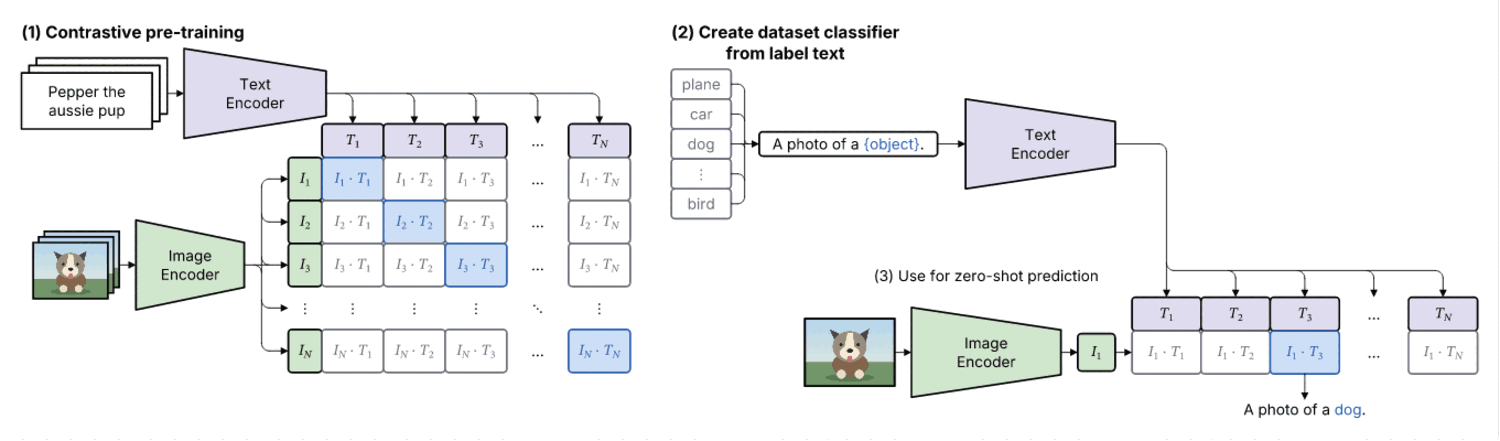
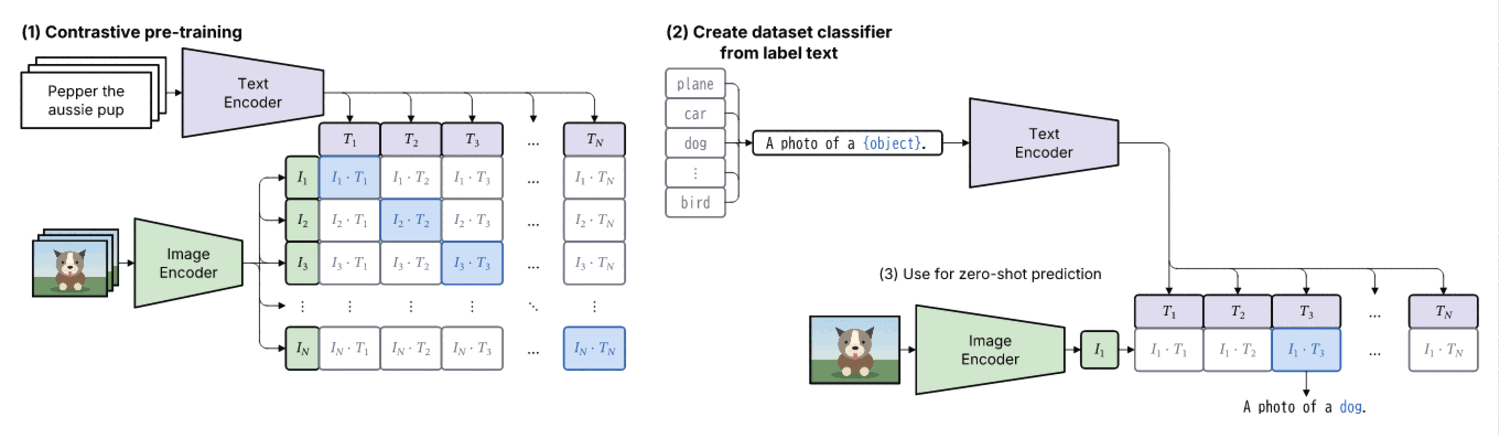
feat: allow monospace text in node labels (#284)
* feat: allow monospace text in node labels
* fix(theme): preserve mono overrides through component expansion

diff --git a/src/render/mono-labels.integration.test.ts b/src/render/mono-labels.integration.test.ts
@@ -1,0 +1,247 @@
+import { describe, expect, test } from "bun:test";
+import { checkFigure } from "../core/check";
+import { BUILTIN_THEMES, getTheme } from "../core/theme/builtin";
+import { getFontSet } from "../core/theme/fonts";
+import type { Theme } from "../core/theme/schema";
+import { measureLabel } from "../lint/geometry/measure";
+import { svgToPdf } from "./pdf";
+import { inspectPdf } from "./pdf/testing";
+import { svgToEditablePptx } from "./pptx";
+import { readPptx } from "./pptx/testing";
+import { type RenderedStructuredFigure, renderFigure } from "./render";
+
+const source = (nodes: string, theme = "paper", items = "a") => `version: 1
+figure:
+  id: mono-labels
+  theme: ${theme}
+  profile: paper-double
+  layout:
+    arrange: { row: { items: [${items}] } }
+nodes:
+${nodes}
+edges: []
+`;
+const pair = (aFields: string, bFields = aFields, aLabel = "iiiiiiii", bLabel = "WWWWWWWW") =>
+  source(
+    `  - { id: a, component: label, label: ${JSON.stringify(aLabel)}${aFields} }
+  - { id: b, component: label, label: ${JSON.stringify(bLabel)}${bFields} }`,
+    "paper",
+    "a, b",
+  );
+const withoutHash = (svg: string) => svg.replace(/input-sha256="[0-9a-f]+"/, "");
+
+/** Register a private in-memory theme without changing any built-in theme. */
+async function withTheme(overrides: Partial<Theme>, run: (id: string) => Promise<void>) {
+  const paper = getTheme("paper");
+  if (!paper) throw new Error("missing paper theme");
+  const id = "test-mono-labels";
+  const themes = BUILTIN_THEMES as Map<string, Theme>;
+  themes.set(id, { ...paper, ...overrides, id });
+  try {
+    await run(id);
+  } finally {
+    themes.delete(id);
+  }
+}
+
+const expanded = (component: "matrix" | "legend", mono = "") =>
+  source(`  - id: a
+    component: ${component}
+    label: iiiWWW${mono}
+    props: ${component === "matrix" ? "{ classes: { x: { label: Cell } }, cells: [x] }" : "{ entries: [{ node: { component: box }, label: Entry }] }"}`);
+
+async function render(yaml: string, theme?: string) {
+  const result = await renderFigure(
+    theme === undefined ? yaml : yaml.replace("theme: paper", `theme: ${theme}`),
+  );
+  if (!result.ok) throw new Error(JSON.stringify(result.diagnostics));
+  return result.value as RenderedStructuredFigure;
+}
+
+describe("monospace node labels (#279)", () => {
+  test("mono: true uses the font set's mono font and every character has one width", async () => {
+    for (const theme of ["minimal", "academic", "slides", "color", "paper"]) {
+      const rendered = await render(pair(", mono: true"), theme);
+      const [a, b] = rendered.layout.nodes;
+      expect(a?.rect.width).toBeCloseTo(b?.rect.width ?? -1, 4);
+      const labels = rendered.inspection.elements.flatMap((e) => e.labels);
+      expect(labels.map((l) => l.font)).toEqual(["mono", "mono"]);
+      expect(rendered.svg).toContain("text-mono");
+      const fonts = getFontSet(rendered.compiled.fontSet.id);
+      if (!fonts) throw new Error("missing fonts");
+      const widths = labels.map((l) => measureLabel(l, fonts).box?.width ?? -1);
+      expect(widths[0]).toBeCloseTo(widths[1] ?? -2, 4);
+    }
+    // Proportional text keeps different widths, so the equality above is meaningful.
+    const plain = await render(pair(""));
+    const [pa, pb] = plain.layout.nodes;
+    expect(pa?.rect.width).not.toBeCloseTo(pb?.rect.width ?? -1, 1);
+  });
+
+  test("without mono nothing changes, and mono: false turns a theme's mono off", async () => {
+    const plain = await render(pair(""));
+    expect(plain.svg).not.toContain("text-mono");
+    const off = await render(pair(", mono: false"));
+    expect(withoutHash(off.svg)).toBe(withoutHash(plain.svg));
+    const paper = getTheme("paper");
+    if (!paper) throw new Error("missing paper theme");
+    await withTheme(
+      { base: { ...paper.base, node: { ...paper.base.node, mono: true } } },
+      async (id) => {
+        const inherited = await render(pair(""), id);
+        expect(inherited.inspection.elements.flatMap((e) => e.labels.map((l) => l.font))).toEqual([
+          "mono",
+          "mono",
+        ]);
+        const overridden = await render(pair(", mono: false"), id);
+        expect(overridden.inspection.elements.flatMap((e) => e.labels.map((l) => l.font))).toEqual(
+          plain.inspection.elements.flatMap((e) => e.labels.map((l) => l.font)),
+        );
+        expect(overridden.layout.nodes[0]?.rect.width).not.toBeCloseTo(
+          overridden.layout.nodes[1]?.rect.width ?? -1,
+          1,
+        );
+      },
+    );
+  });
+
+  for (const component of ["matrix", "legend"] as const) {
+    test(`${component} preserves mono on its title through expansion`, async () => {
+      const plain = await render(expanded(component));
+      const on = await render(expanded(component, "\n    mono: true"));
+      const title = (figure: RenderedStructuredFigure) =>
+        figure.inspection.elements.flatMap((e) => e.labels).find((l) => l.text === "iiiWWW");
+      expect(title(plain)?.font).toBe("latin-bold");
+      expect(title(on)?.font).toBe("mono-bold");
+      expect(
+        on.inspection.elements
+          .flatMap((e) => e.labels)
+          .filter((l) => l.text !== "iiiWWW")
+          .every((l) => l.font !== "mono"),
+      ).toBe(true);
+      const paper = getTheme("paper");
+      if (!paper) throw new Error("missing paper theme");
+      await withTheme(
+        { base: { ...paper.base, group: { ...paper.base.group, mono: true } } },
+        async (id) => {
+          expect(title(await render(expanded(component), id))?.font).toBe("mono-bold");
+          expect(title(await render(expanded(component, "\n    mono: false"), id))?.font).toBe(
+            "latin-bold",
+          );
+        },
+      );
+    });
+  }
+
+  test("missing mono fonts point to the written override, including inherited tokens", async () => {
+    const paper = getTheme("paper");
+    if (!paper) throw new Error("missing paper theme");
+    const { mono: _, ...fontSet } = paper.fontSet;
+    await withTheme({ fontSet }, async (id) => {
+      const yaml = source(
+        `  - id: a
+    component: tokens
+    mono: true
+    props: { cells: [inherited, { label: own, mono: true }, { label: off, mono: false }] }`,
+        id,
+      );
+      const diagnostics = checkFigure(yaml).state.diagnostics.filter(
+        (d) => d.code === "theme/missing-font",
+      );
+      expect(diagnostics.map((d) => d.path)).toEqual([
+        ["nodes", 0, "mono"],
+        ["nodes", 0, "props", "cells", 1, "mono"],
+      ]);
+      expect(diagnostics.map((d) => d.location?.line)).toEqual([11, 12]);
+      for (const component of ["matrix", "legend"] as const) {
+        const check = checkFigure(
+          expanded(component, "\n    mono: true").replace("theme: paper", `theme: ${id}`),
+        );
+        expect(
+          check.state.diagnostics.filter((d) => d.code === "theme/missing-font").map((d) => d.path),
+        ).toEqual([["nodes", 0, "mono"]]);
+      }
+    });
+  });
+
+  test("measurement matches the drawn text, with sublabels and colored math spans", async () => {
+    const rendered = await render(
+      source(
+        `  - id: a
+    component: box
+    label: ${JSON.stringify(String.raw`A photo of a $\textcolor{blue}{\text{\{object\}}}$.`)}
+    sublabel: small
+    mono: true`,
+      ),
+    );
+    const fonts = getFontSet(rendered.compiled.fontSet.id);
+    if (!fonts) throw new Error("missing fonts");
+    const node = rendered.layout.nodes[0];
+    const labels = rendered.inspection.elements[0]?.labels ?? [];
+    expect(labels.map((l) => l.font)).toEqual(["mono", "mono"]);
+    const runs = labels[0]?.runs?.flat() ?? [];
+    expect(runs.some((r) => r.fill !== undefined && r.text.includes("{object}"))).toBe(true);
+    for (const label of labels) {
+      const box = measureLabel(label, fonts).box;
+      expect(box).toBeDefined();
+      expect(box?.width ?? Number.POSITIVE_INFINITY).toBeLessThanOrEqual(node?.rect.width ?? 0);
+    }
+  });
+
+  test("math symbols keep the math fonts inside a mono label", async () => {
+    const rendered = await render(
+      source(`  - { id: a, component: box, label: '$I_1\\cdot T_2$ plane', mono: true }`),
+    );
+    expect(rendered.svg).toContain("text-math-italic");
+    expect(rendered.svg).toContain("text-mono");
+  });
+
+  test("PDF embeds BIZ UDGothic and the glyph advances match the layout", async () => {
+    const rendered = await render(pair(", mono: true"));
+    const pdf = svgToPdf(rendered.svg);
+    expect(pdf.ok).toBe(true);
+    if (!pdf.ok) return;
+    const inspected = inspectPdf(pdf.value);
+    expect(inspected.fonts.some((f) => f.baseFont.includes("BIZUDGothic"))).toBe(true);
+    const advances = new Set(inspected.glyphs.map((g) => g.advance.toFixed(3)));
+    expect(advances.size).toBe(1);
+  });
+
+  test("editable PPTX names the mono font", async () => {
+    const rendered = await render(pair(", mono: true"));
+    const pptx = svgToEditablePptx(rendered.svg, rendered.compiled.ir);
+    expect(pptx.ok).toBe(true);
+    if (!pptx.ok) return;
+    const xml = new TextDecoder().decode(readPptx(pptx.value).get("ppt/slides/slide1.xml"));
+    expect(xml).toContain('typeface="BIZ UDGothic"');
+    expect(xml).toContain("iiiiiiii");
+  });
+
+  test("tokens cells inherit the node's mono and can override it", async () => {
+    const rendered = await render(
+      source(
+        `  - id: a
+    component: tokens
+    mono: true
+    props: { cells: [plane, { label: car, mono: false }, dog] }
+  - { id: b, component: label, label: x }`,
+        "paper",
+        "a, b",
+      ),
+    );
+    const fonts = Object.fromEntries(
+      rendered.inspection.elements.flatMap((e) => e.labels.map((l) => [l.text, l.font] as const)),
+    );
+    expect(fonts.plane).toBe("mono");
+    expect(fonts.car).not.toBe("mono");
+    expect(fonts.dog).toBe("mono");
+    expect(fonts.x).not.toBe("mono");
+  });
+
+  test("every built-in theme accepts mono, and mono must be a boolean", () => {
+    expect(
+      checkFigure(pair(", mono: true")).state.diagnostics.filter((d) => d.severity === "error"),
+    ).toEqual([]);
+    expect(checkFigure(pair(", mono: yes")).state.diagnostics[0]?.code).toBe("schema/invalid-type");
+  });
+});

diff --git a/docs/gallery/index.html b/docs/gallery/index.html
@@ -1050,7 +1050,7 @@ edges:
 <p>A sequence of cells side by side, e.g. tokens or keys, each drawn as its own node that edges address as &lt;node&gt;.&lt;cell&gt; (structured layout only).</p>
 <ul class="chips" aria-label="variants"><li>default</li></ul>
 <dl class="meta"><dt>since</dt><dd><code>0.6.0</code></dd><dt>engines</dt><dd><code>[&quot;structured&quot;]</code></dd><dt>shape</dt><dd><code>rectangle</code></dd><dt>sizing</dt><dd><code>auto</code></dd></dl>
-<table><thead><tr><th>prop</th><th>type</th><th>required</th><th>description</th></tr></thead><tbody><tr><td><code>cells</code></td><td><code>array</code></td><td>no</td><td>The cells in order: labels, objects with id, label, tone, component, variant, width and height, or { separator: dotted, id?, tone?, width?, height? } divider cells (since 0.7.0). Dividers count in positional cell references.</td></tr><tr><td><code>lines</code></td><td><code>array</code></td><td>no</td><td>Instead of cells: several lines of cells, each laid out in direction, the lines placed across it (below one another for right / left), e.g. keys [[W], [A, S, D]]. Cells are numbered across the lines.</td></tr><tr><td><code>direction</code></td><td><code>&quot;right&quot; | &quot;left&quot; | &quot;down&quot; | &quot;up&quot;</code></td><td>no</td><td>Where the cells run: right, left (a row), down or up (a stack).</td></tr><tr><td><code>gap</code></td><td><code>any</code></td><td>no</td><td>Space between cells, as an arrange gap. Omitted means the layout default.</td></tr><tr><td><code>align</code></td><td><code>&quot;start&quot; | &quot;center&quot; | &quot;end&quot; | &quot;stretch&quot;</code></td><td>no</td><td>Cross-axis alignment of the cells, as in an arrange box. Omitted inherits from the enclosing box.</td></tr><tr><td><code>lineGap</code></td><td><code>any</code></td><td>no</td><td>Space between lines (with lines). Omitted means gap.</td></tr><tr><td><code>lineAlign</code></td><td><code>&quot;start&quot; | &quot;center&quot; | &quot;end&quot; | &quot;stretch&quot;</code></td><td>no</td><td>Alignment of the lines across them, e.g. center to centre a short line (with lines). Omitted inherits from the enclosing box.</td></tr><tr><td><code>component</code></td><td><code>string</code></td><td>no</td><td>The node component of every cell. Omitted means box.</td></tr><tr><td><code>variant</code></td><td><code>string</code></td><td>no</td><td>The variant of every cell. Omitted means default.</td></tr><tr><td><code>width</code></td><td><code>string</code></td><td>no</td><td>The width of every cell. Omitted means sized to its label.</td></tr><tr><td><code>height</code></td><td><code>string</code></td><td>no</td><td>The height of every cell. Omitted means sized to its label.</td></tr></tbody></table>
+<table><thead><tr><th>prop</th><th>type</th><th>required</th><th>description</th></tr></thead><tbody><tr><td><code>cells</code></td><td><code>array</code></td><td>no</td><td>The cells in order: labels, objects with id, label, tone, mono, component, variant, width and height, or { separator: dotted, id?, tone?, width?, height? } divider cells (since 0.7.0). Dividers count in positional cell references.</td></tr><tr><td><code>lines</code></td><td><code>array</code></td><td>no</td><td>Instead of cells: several lines of cells, each laid out in direction, the lines placed across it (below one another for right / left), e.g. keys [[W], [A, S, D]]. Cells are numbered across the lines.</td></tr><tr><td><code>direction</code></td><td><code>&quot;right&quot; | &quot;left&quot; | &quot;down&quot; | &quot;up&quot;</code></td><td>no</td><td>Where the cells run: right, left (a row), down or up (a stack).</td></tr><tr><td><code>gap</code></td><td><code>any</code></td><td>no</td><td>Space between cells, as an arrange gap. Omitted means the layout default.</td></tr><tr><td><code>align</code></td><td><code>&quot;start&quot; | &quot;center&quot; | &quot;end&quot; | &quot;stretch&quot;</code></td><td>no</td><td>Cross-axis alignment of the cells, as in an arrange box. Omitted inherits from the enclosing box.</td></tr><tr><td><code>lineGap</code></td><td><code>any</code></td><td>no</td><td>Space between lines (with lines). Omitted means gap.</td></tr><tr><td><code>lineAlign</code></td><td><code>&quot;start&quot; | &quot;center&quot; | &quot;end&quot; | &quot;stretch&quot;</code></td><td>no</td><td>Alignment of the lines across them, e.g. center to centre a short line (with lines). Omitted inherits from the enclosing box.</td></tr><tr><td><code>component</code></td><td><code>string</code></td><td>no</td><td>The node component of every cell. Omitted means box.</td></tr><tr><td><code>variant</code></td><td><code>string</code></td><td>no</td><td>The variant of every cell. Omitted means default.</td></tr><tr><td><code>width</code></td><td><code>string</code></td><td>no</td><td>The width of every cell. Omitted means sized to its label.</td></tr><tr><td><code>height</code></td><td><code>string</code></td><td>no</td><td>The height of every cell. Omitted means sized to its label.</td></tr></tbody></table>
 <div class="renders"><figure><img src="components/sumi-tokens.minimal.svg" alt="sumi/tokens, every variant, theme minimal" loading="lazy"><figcaption>theme <code>minimal</code> · <code>sumi render sumi-tokens.sumi.yaml</code><br>76.02mm × 31.57mm (max width 180mm, max height 220mm)</figcaption></figure><figure><img src="components/sumi-tokens.academic.svg" alt="sumi/tokens, every variant, theme academic" loading="lazy"><figcaption>theme <code>academic</code> · <code>sumi render sumi-tokens.sumi.yaml --theme academic</code><br>76.02mm × 31.57mm (max width 180mm, max height 220mm)</figcaption></figure><figure><img src="components/sumi-tokens.slides.svg" alt="sumi/tokens, every variant, theme slides" loading="lazy"><figcaption>theme <code>slides</code> · <code>sumi render sumi-tokens.sumi.yaml --theme slides</code><br>102.13mm × 40.22mm (max width 180mm, max height 220mm)</figcaption></figure><figure><img src="components/sumi-tokens.color.svg" alt="sumi/tokens, every variant, theme color" loading="lazy"><figcaption>theme <code>color</code> · <code>sumi render sumi-tokens.sumi.yaml --theme color</code><br>76.02mm × 31.57mm (max width 180mm, max height 220mm)</figcaption></figure><figure><img src="components/sumi-tokens.paper.svg" alt="sumi/tokens, every variant, theme paper" loading="lazy"><figcaption>theme <code>paper</code> · <code>sumi render sumi-tokens.sumi.yaml --theme paper</code><br>71.79mm × 31.22mm (max width 180mm, max height 220mm)</figcaption></figure></div>
 <details><summary>Source: <code>sumi-tokens.sumi.yaml</code></summary><pre># sumi/tokens: every variant. Generated by `bun run gallery` (#17, #181).
 version: 1

diff --git a/src/core/figure/tokens.ts b/src/core/figure/tokens.ts
@@ -64,6 +64,7 @@ export type TokenCell =
       id?: string;
       label?: string;
       tone?: Tone;
+      mono?: boolean;
       component?: string;
       variant?: string;
       /** pt */
@@ -339,6 +340,7 @@ export function expandTokens(state: CheckState, registry: Registry, locate: Loca
       const fields: Record<string, DocPath> = {
         label: short ? path : [...path, "label"],
         tone: own("tone", [...tokensPath, "tone"]),
+        mono: own("mono", [...tokensPath, "mono"]),
         component: own("component", [...propsPath, "component"]),
         variant: own("variant", [...propsPath, "variant"]),
         "props.width": own("width", [...propsPath, "width"]),
@@ -382,6 +384,7 @@ export function expandTokens(state: CheckState, registry: Registry, locate: Loca
         }
       }
       const tone = cell.tone ?? node.tone;
+      const mono = cell.mono ?? node.mono;
       // Written as in a figure: the component stage validates them like any props.
       const cellProps: Record<string, unknown> = {
         ...(width !== undefined && { width: `${width}pt` }),
@@ -394,6 +397,7 @@ export function expandTokens(state: CheckState, registry: Registry, locate: Loca
         variant:
           separator !== undefined ? "outlined" : (cell.variant ?? props.variant ?? "default"),
         ...(tone !== undefined && { tone }),
+        ...(mono !== undefined && { mono }),
         props: cellProps,
         ...(node.group !== undefined && { group: node.group }),
       };

diff --git a/src/core/theme/resolve.ts b/src/core/theme/resolve.ts
@@ -141,10 +141,29 @@ export function styleFigure(state: CheckState, locate: Locator): Theme | undefin
     });
     const { missingVariant, missingTone } = resolution;
     // A hatched matrix cell or legend sample (#180): lines in the tone's line color, gray's without one.
-    const style =
+    const painted =
       paint?.hatch === true && resolution.style.kind === "node"
         ? hatched(theme, resolution.style, tone)
         : resolution.style;
+    // A node's own `mono` (#279) overrides the theme's: true needs the font set's mono font.
+    const mono = entry.kind === "node" ? entry.element.mono : paint?.mono;
+    if (mono === true && theme.fontSet.mono === undefined) {
+      const at = [...path, "mono"];
+      const location = locate(at);
+      state.diagnostics.push({
+        code: "theme/missing-font",
+        severity: "error",
+        message: `Node "${subject.id}" asks for monospace text, but font set ${theme.fontSet.id} has no mono font.`,
+        path: at,
+        ...(location !== undefined && { location }),
+        subject,
+        hint: "Use a theme whose font set has a mono font (every built-in theme has one), or remove mono.",
+      });
+      state.invalid.add(key);
+      continue;
+    }
+    const style: ResolvedStyle =
+      mono === undefined || mono === painted.mono ? painted : Object.freeze({ ...painted, mono });
     if (missingVariant) {
       const at = [...path, "variant"];
       const location = locate(at);

diff --git a/src/core/registry/builtins.ts b/src/core/registry/builtins.ts
@@ -367,6 +367,12 @@ const tokenCellFields = {
   variant: VariantField.optional().describe(
     "The variant of the cell, as on a node. Omitted means the tokens' variant.",
   ),
+  mono: z
+    .boolean()
+    .optional()
+    .describe(
+      "Draw the cell's label in the monospace font, as a node's mono field. Omitted means the tokens node's mono.",
+    ),
   width: SizeLength.optional().describe(
     "The width of the cell, as a node's width prop. Omitted means the tokens' width.",
   ),
@@ -429,7 +435,7 @@ const tokens: NodeManifest = {
         .min(1)
         .optional()
         .describe(
-          "The cells in order: labels, objects with id, label, tone, component, variant, width and height, or { separator: dotted, id?, tone?, width?, height? } divider cells (since 0.7.0). Dividers count in positional cell references.",
+          "The cells in order: labels, objects with id, label, tone, mono, component, variant, width and height, or { separator: dotted, id?, tone?, width?, height? } divider cells (since 0.7.0). Dividers count in positional cell references.",
         ),
       lines: z
         .array(z.array(tokenCell).min(1))

diff --git a/src/core/check-state.ts b/src/core/check-state.ts
@@ -78,8 +78,8 @@ export interface PartialFigure {
    * How the theme stage paints an expanded node beyond its component,
    * variant and tone (#180): a matrix cell or a legend's sample box of a
    * hatched class (`hatch`), a matrix header with a tone (`toneText`: the
-   * tone's line color for the text). Only set by expansions; no field of a
-   * written element maps here.
+   * tone's line color for the text), or a node's mono override preserved
+   * on its frame group (#279). Only set by expansions.
    */
   paints?: ReadonlyMap<ElementKey, ExpandedPaint>;
   /**
@@ -93,6 +93,8 @@ export interface PartialFigure {
 
 /** See {@link PartialFigure.paints}. */
 export interface ExpandedPaint {
+  /** The original node's label font override, preserved on an expanded frame (#279). */
+  readonly mono?: boolean;
   /** Diagonal lines over the fill, in the tone's line color (#180). */
   readonly hatch?: true;
   /** The text in the tone's line color (`toneLines`) instead of the fill (#180). */

diff --git a/src/core/figure/schema.ts b/src/core/figure/schema.ts
@@ -511,6 +511,12 @@ export const NodeSchema = z.strictObject({
     ),
   variant: Variant,
   tone: Tone,
+  mono: z
+    .boolean()
+    .optional()
+    .describe(
+      "Draw the node's label and sublabel in the theme's monospace font (e.g. a class name or a prompt). false turns off a variant's monospace text. Math stays in the math fonts; \\textcolor spans keep their colors. On a tokens node it is the default of its cells. Omitted means the variant's own setting (normally proportional text).",
+    ),
   props: Props,
   group: Id.optional().describe(
     "Containing group ID. Omitted means the root (or, in structured layout, the group whose arrange lists it).",

diff --git a/src/core/figure/tokens.test.ts b/src/core/figure/tokens.test.ts
@@ -161,6 +161,7 @@ describe("expansion (#181)", () => {
     expect(doc.tokens?.[0]?.cells[0]?.fields).toEqual({
       label: cells(["props", "cells", 0, "label"]),
       tone: cells(["props", "cells", 0, "tone"]),
+      mono: cells(["mono"]),
       component: cells(["props", "component"]),
       variant: cells(["props", "variant"]),
       "props.width": cells(["props", "cells", 0, "width"]),

diff --git a/src/core/figure/legend.ts b/src/core/figure/legend.ts
@@ -472,6 +472,7 @@ export function expandLegends(state: CheckState, registry: Registry, locate: Loc
     nodes[index] = undefined;
     components.delete(key);
     const frameKey = groupKey(node.id);
+    if (node.mono !== undefined) paints.set(frameKey, { mono: node.mono });
     const frameComponent: ResolvedComponent = {
       id: LEGEND_ID,
       manifest: frameManifest(component.manifest),

diff --git a/src/core/figure/matrix.ts b/src/core/figure/matrix.ts
@@ -526,6 +526,7 @@ export function expandMatrices(state: CheckState, registry: Registry, locate: Lo
     nodes[index] = undefined;
     components.delete(key);
     const frameKey = groupKey(node.id);
+    if (node.mono !== undefined) paints.set(frameKey, { mono: node.mono });
     added.add(frameKey);
     origins.push([
       frameKey,
